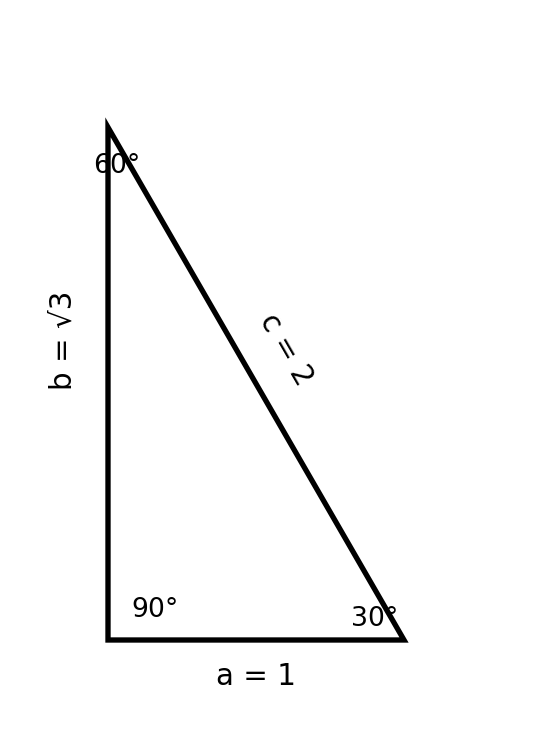
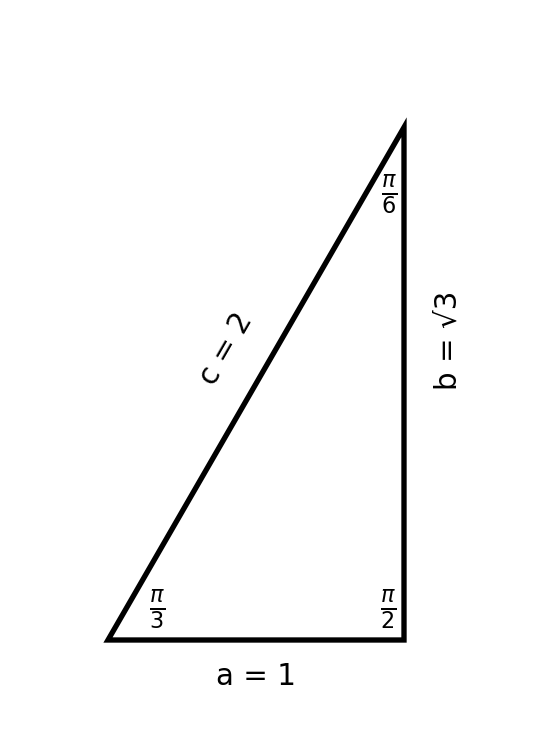
Built site for gh-pages

diff --git a/trig/basics.html b/trig/basics.html
@@ -242,7 +242,12 @@ window.Quarto = {
    
   <ul>
   <li><a href="#the-three-primary-functions" id="toc-the-three-primary-functions" class="nav-link active" data-scroll-target="#the-three-primary-functions"><span class="header-section-number">1.1</span> The Three Primary Functions</a></li>
-  <li><a href="#the-unit-circle" id="toc-the-unit-circle" class="nav-link" data-scroll-target="#the-unit-circle"><span class="header-section-number">1.2</span> The Unit Circle</a></li>
+  <li><a href="#degrees-vs-radians" id="toc-degrees-vs-radians" class="nav-link" data-scroll-target="#degrees-vs-radians"><span class="header-section-number">1.2</span> Degrees vs Radians</a></li>
+  <li><a href="#special-right-triangles" id="toc-special-right-triangles" class="nav-link" data-scroll-target="#special-right-triangles"><span class="header-section-number">1.3</span> Special Right Triangles</a>
+  <ul class="collapse">
+  <li><a href="#special-right-triangle-1-30-60-90" id="toc-special-right-triangle-1-30-60-90" class="nav-link" data-scroll-target="#special-right-triangle-1-30-60-90"><span class="header-section-number">1.3.1</span> Special Right Triangle #1: 30-60-90</a></li>
+  </ul></li>
+  <li><a href="#the-unit-circle" id="toc-the-unit-circle" class="nav-link" data-scroll-target="#the-unit-circle"><span class="header-section-number">1.4</span> The Unit Circle</a></li>
   </ul>
 </nav>
     </div>
@@ -283,7 +288,47 @@ window.Quarto = {
 \cos\theta = \frac{b}{c} \qquad
 \tan\theta = \frac{a}{b}
 \]</span></p>
-<div id="4f4ebfe4" class="cell" data-execution_count="1">
+</section>
+<section id="degrees-vs-radians" class="level2" data-number="1.2">
+<h2 data-number="1.2" class="anchored" data-anchor-id="degrees-vs-radians"><span class="header-section-number">1.2</span> Degrees vs Radians</h2>
+<p>It’s important to discuss the units we use when measuring angles. Angles can be expressed in degrees or radians. In math, radians are preferred since they are a “natural” unit in the sense that they are directly related to the geometry of a circle. Instead of breaking up a circle into 360 arbitrary units, we can measure angles using the circle’s own radius. Here is the formula to better visualize this concept: <span class="math display">\[
+\text{Radian} = \frac{\text{distance traveled}}{\text{radius}}
+\]</span> Imagine you are riding on a carousel and sitting on a horse that is 10 meters from the center of the ride. You can figure out the angle of your rotation by dividing how many meters you have traveled in a circle by 10 meters. You are left with a dimensionless unit (since dividing meters by meters cancels out) whose value describes the angle in radians.</p>
+<p>To convert from degrees to radians, where <span class="math inline">\(\theta\)</span> is an angle; <span class="math display">\[
+\theta\cdot\frac{\pi}{180°}
+\]</span> To convert from radians to degrees: <span class="math display">\[
+\theta\cdot\frac{180°}{\pi}
+\]</span></p>
+</section>
+<section id="special-right-triangles" class="level2" data-number="1.3">
+<h2 data-number="1.3" class="anchored" data-anchor-id="special-right-triangles"><span class="header-section-number">1.3</span> Special Right Triangles</h2>
+<p>Special right triangles are specific triangles with fixed angles, making their side lengths intuitive without even having to use the pythagorean theorem. Because of their simplicity, they make it easier to analyze the unit circle and evaluate trigonometric functions.</p>
+<section id="special-right-triangle-1-30-60-90" class="level3" data-number="1.3.1">
+<h3 data-number="1.3.1" class="anchored" data-anchor-id="special-right-triangle-1-30-60-90"><span class="header-section-number">1.3.1</span> Special Right Triangle #1: 30-60-90</h3>
+<div class="columns">
+<div class="column" style="width:70%;">
+<p>The first special right triangle has a base length of 1, a height of 2, and a hypotenuse of <span class="math inline">\(\sqrt{3}\)</span>. Its smallest angle measures <span class="math inline">\(\frac{\pi}{6}\)</span> degrees and the remaining angle measures <span class="math inline">\(\frac{\pi}{3}\)</span> degrees.</p>
+</div><div class="column" style="width:50%;">
+<p><span class="math display">\[
+\begin{array}{cc}
+\sin(\frac{\pi}{6}) = \dfrac{\text{opp}}{\text{hyp}} = \frac{1}{2} &amp;
+\sin(\frac{\pi}{3}) = \dfrac{\text{opp}}{\text{hyp}} = \frac{\sqrt3}{2} &amp;
+\end{array}
+\]</span> <span class="math display">\[
+\begin{array}{cc}
+\cos(\frac{\pi}{6}) = \dfrac{\text{adj}}{\text{hyp}} = \frac{\sqrt3}{2}
+\cos(\frac{\pi}{3}) = \dfrac{\text{adj}}{\text{hyp}} = \frac{1}{2}
+\end{array}
+\]</span> <span class="math display">\[
+\begin{array}{cc}
+\tan(\frac{\pi}{6}) = \dfrac{\text{opp}}{\text{adj}} = \frac{1}{\sqrt3}
+\tan(\frac{\pi}{3}) = \dfrac{\text{opp}}{\text{adj}} = \frac{\sqrt3}{1}
+\end{array}
+\]</span></p>
+</div><div class="column" style="width:1%;">
+
+</div><div class="column" style="width:40%;">
+<div id="692f4e08" class="cell" data-execution_count="1">
 <div class="cell-output cell-output-display">
 <div>
 <figure class="figure">
@@ -292,9 +337,12 @@ window.Quarto = {
 </div>
 </div>
 </div>
+</div>
+</div>
 </section>
-<section id="the-unit-circle" class="level2" data-number="1.2">
-<h2 data-number="1.2" class="anchored" data-anchor-id="the-unit-circle"><span class="header-section-number">1.2</span> The Unit Circle</h2>
+</section>
+<section id="the-unit-circle" class="level2" data-number="1.4">
+<h2 data-number="1.4" class="anchored" data-anchor-id="the-unit-circle"><span class="header-section-number">1.4</span> The Unit Circle</h2>
 <p>The <strong>unit circle</strong> is a circle of radius <span class="math inline">\(r = 1\)</span> centered at the origin of the Cartesian plane. It is the foundation of trigonometry and, by extension, of much of calculus.</p>
 <p>For any angle <span class="math inline">\(\theta\)</span> measured counterclockwise from the positive <span class="math inline">\(x\)</span>-axis, the corresponding point on the unit circle is:</p>
 <p><span class="math display">\[

diff --git a/index.html b/index.html
@@ -7,7 +7,7 @@
 <meta name="viewport" content="width=device-width, initial-scale=1.0, user-scalable=yes">
 
 <meta name="author" content="Isabella García">
-<meta name="dcterms.date" content="2026-07-02">
+<meta name="dcterms.date" content="2026-07-06">
 
 <title>Mathematical Foundations for Economics Students</title>
 <style>
@@ -239,7 +239,7 @@ ul.task-list li input[type="checkbox"] {
     <div>
     <div class="quarto-title-meta-heading">Published</div>
     <div class="quarto-title-meta-contents">
-      <p class="date">July 2, 2026</p>
+      <p class="date">July 6, 2026</p>
     </div>
   </div>
   